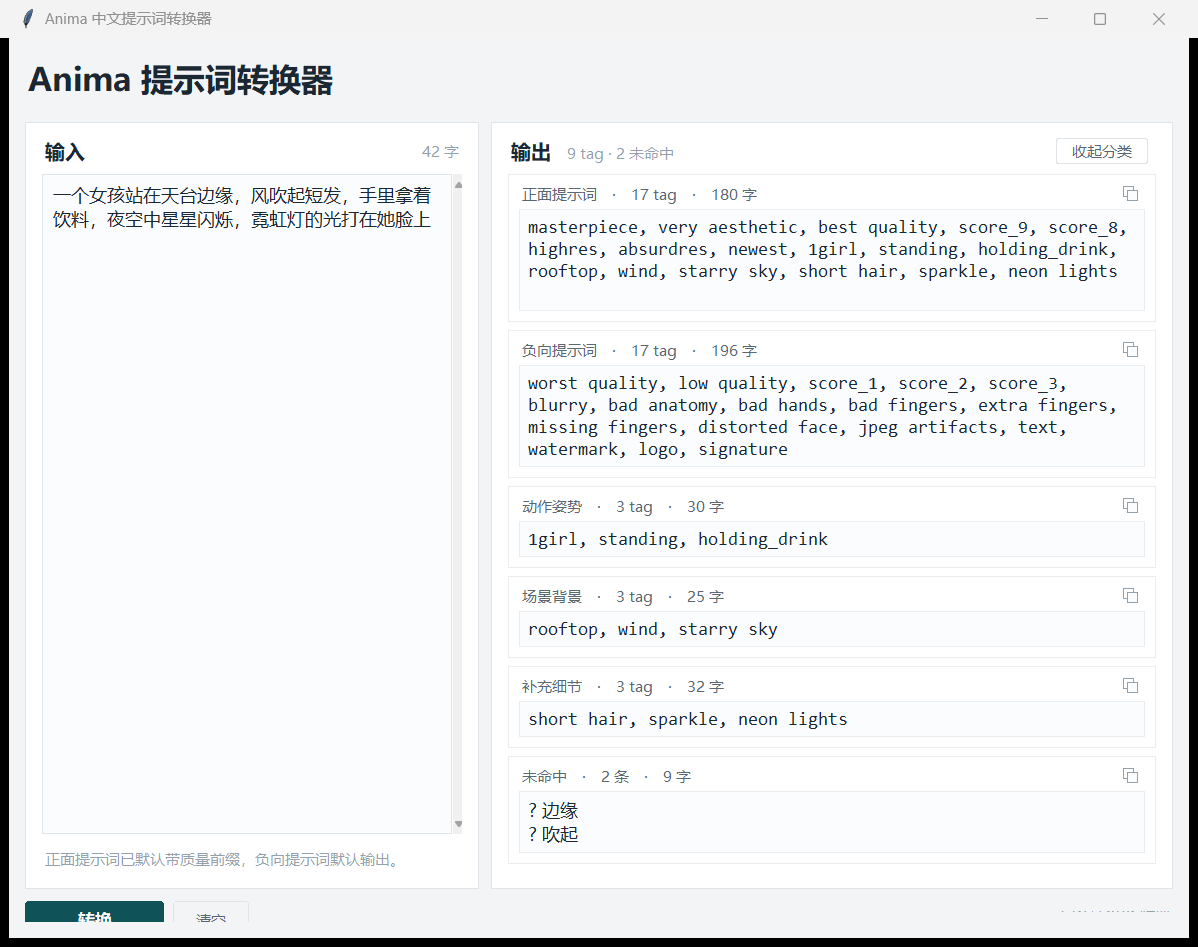
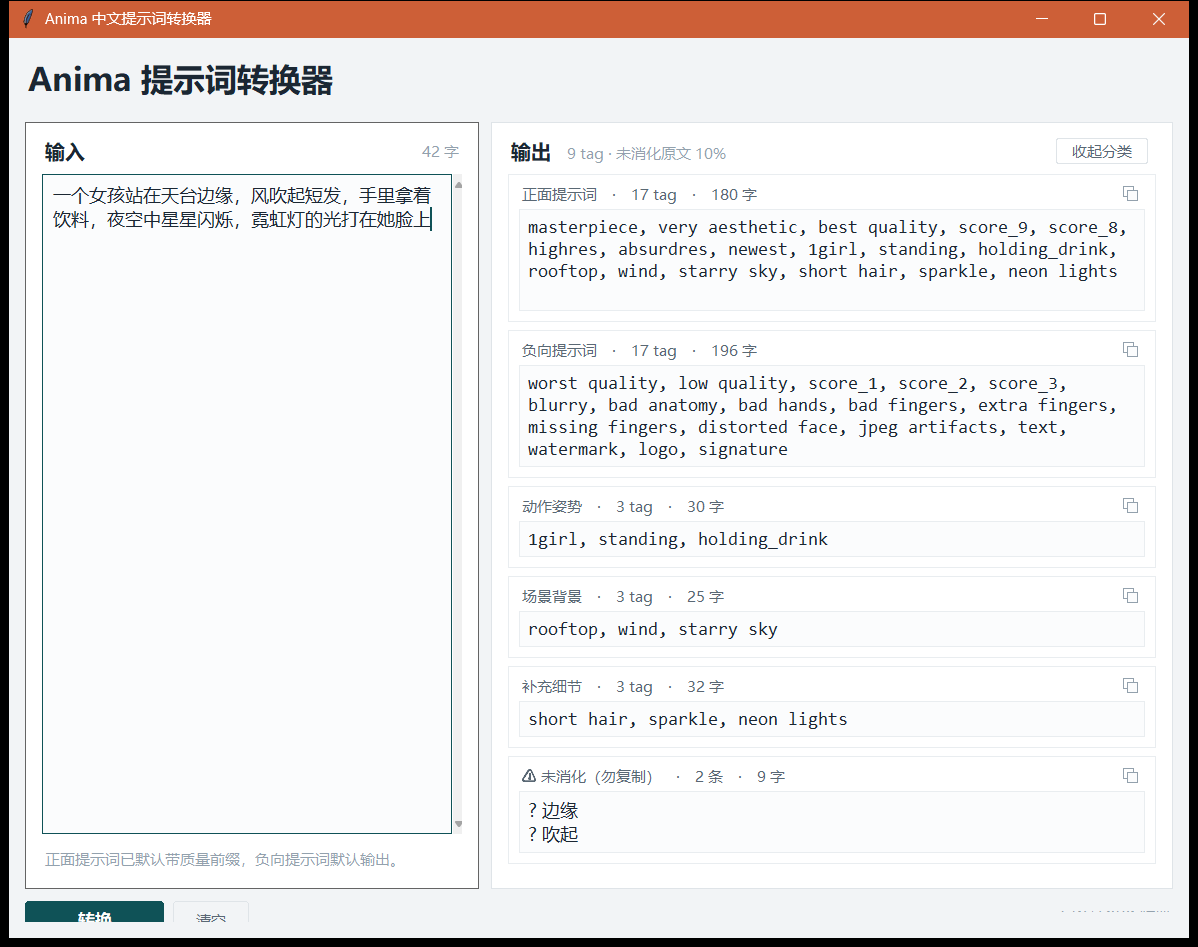
docs: 明确说明纯离线 tag 映射的能力边界
工具只做「中文词 -> Danbooru tag」单点映射，不做语序与动作推理。
以动作为主的描述会大量失真，实测需如实说明。

新增 tools/audit_actions.py：量化动作类描述的失真
- 20 条动作描述：丢弃 41% 原文字符，18 个片段未消化
- 4 条名词描述对照：丢弃 0%
- 典型失真：动词无 tag 可映射，只抽出宾语
  「女孩打开冰箱拿出牛奶」-> 1girl, refrigerator, milk（动作丢失）
  「他解开衬衫最上面的扣子」-> 完全无命中

界面与输出改进：
- 顶部显示「未消化原文 N%」，超 40% 转警示色
- 脱离 prompt 的片段改用醒目标题「⚠ 未消化（勿复制）」并加横线隔离
- 输出末尾直接给出建议：动作改用英文短句写在 prompt 末尾
- README 新增「这个工具不能做什么」一节，附实测数据与正确写法

用词统一：「未命中」改为「未消化」，更准确表达语义丢失

Changed region(s): [[0.0, 0.0, 1.0, 0.0612], [0.4324, 0.7962, 0.6177, 0.8268], [0.525, 0.1531, 0.6177, 0.1837]]

diff --git a/tools/audit_actions.py b/tools/audit_actions.py
@@ -1,0 +1,98 @@
+# -*- coding: utf-8 -*-
+"""自检：动作类描述在「纯 tag 映射」下的失真情况。
+
+这个工具只做「中文词 -> Danbooru tag」的单点映射，不理解句法。
+本脚本量化由此产生的三类问题，用于在 README 里如实说明边界。
+
+用法：
+    python tools/audit_actions.py
+    python tools/audit_actions.py --ext         # 带上扩展词库
+"""
+import argparse
+import sys
+from pathlib import Path
+
+sys.path.insert(0, str(Path(__file__).resolve().parent.parent))
+
+import anima_prompt as ap  # noqa: E402
+
+# 典型动作描述：动词 + 宾语 + 修饰，考察工具能保住多少语义
+CASES = [
+    "她握着剑柄缓缓抽出长剑",
+    "女孩打开冰箱拿出牛奶",
+    "他一边走路一边看手机",
+    "男孩跳起来伸手去够树枝",
+    "她轻轻地叹了口气然后转身离开",
+    "他把书放到架子上",
+    "她推开窗户探出头",
+    "男人点起一根烟",
+    "她用手指拨了拨头发",
+    "他蹲下身系鞋带",
+    "女孩把头发扎成马尾",
+    "她单手撑着脸颊看书",
+    "他把杯子递给我",
+    "她戴上耳机开始跑步",
+    "男孩把球踢向球门",
+    "她伸手接住落下的花瓣",
+    "他解开衬衫最上面的扣子",
+    "女孩把钥匙插进锁孔",
+    "她转身背对着我",
+    "他抬头看向天花板",
+]
+
+# 纯名词/状态描述：这类应该表现良好，作为对照
+CONTRAST = [
+    "一个女孩坐在教室窗边",
+    "双马尾少女穿着和服",
+    "银发红瞳的少女站在雨中",
+    "逆光下的长发女孩",
+]
+
+
+def run(text: str, use_ext: bool) -> dict:
+    return ap.convert(text, use_ext=use_ext)
+
+
+def main() -> int:
+    parser = argparse.ArgumentParser()
+    parser.add_argument("--ext", action="store_true", help="启用扩展词库")
+    args = parser.parse_args()
+
+    ap.load_user_dict()
+
+    def summarize(title: str, cases: list[str]) -> None:
+        print(f"\n{'=' * 66}\n{title}\n{'=' * 66}")
+        n_hit = n_miss = n_chars_hit = n_chars_all = 0
+        for text in cases:
+            r = run(text, args.ext)
+            tags = ap.all_tags(r)
+            miss = r["misses"]
+            n_hit += len(tags)
+            n_miss += len(miss)
+            n_chars_all += len(text)
+            # 被「未命中」吞掉的原文字数，粗略代表语义丢失
+            n_chars_hit += sum(len(m) for m in miss)
+            flag = "  <-- 无任何命中" if not tags else ""
+            print(f"\n输入：{text}")
+            print(f"  tag  ：{', '.join(tags) if tags else '（空）'}")
+            if miss:
+                print(f"  丢失 ：{'、'.join(miss)}")
+            if flag:
+                print(flag)
+
+        print(f"\n{'-' * 66}")
+        print(f"用例数 {len(cases)}   产出 tag {n_hit} 个   未消化片段 {n_miss} 个")
+        if n_chars_all:
+            print(f"被丢弃的原文字符占比：{n_chars_hit / n_chars_all * 100:.0f}%")
+
+    summarize("动作类描述（含动词、宾语、结果）", CASES)
+    summarize("名词 / 状态描述（对照组）", CONTRAST)
+
+    print("\n结论提示：")
+    print("  - 动作类：动词普遍无 tag 可映射，只有宾语/状态被抽出，动作本身丢失")
+    print("  - 名词类：命中率高，这是本工具的设计适用范围")
+    return 0
+
+
+if __name__ == "__main__":
+    raise SystemExit(main())

diff --git a/anima_prompt.py b/anima_prompt.py
@@ -852,12 +852,18 @@ def render(result: dict, with_quality: bool = False, with_negative: bool = False
     if result["misses"]:
         lines.append("")
         lines.append("")
-        lines.append(f"【未命中 · 词典里没有（{len(result['misses'])}）】")
+        lines.append("─" * 46)
+        lines.append(f"⚠ 以下 {len(result['misses'])} 段未进入 prompt，不要复制")
+        lines.append("─" * 46)
         for m in result["misses"]:
             lines.append(f"  ? {m}")
         lines.append("")
-        lines.append("这些片段没有对应 Danbooru tag，按「不脑补」原则未写入 prompt。")
-        lines.append("要补的话，在 data/user_dict.json 里加一条映射即可。")
+        lines.append("本工具只做「中文词 → Danbooru tag」的单点映射，不做语序和动作推理。")
+        lines.append("所以以动作为主的描述会有损失：动词多半没有对应 tag，")
+        lines.append("能命中的往往只是动作的宾语，画面容易变成「静物」。")
+        lines.append("")
+        lines.append("建议：动作部分改用英文短句写在 prompt 末尾，效果比硬凑 tag 好得多。")
+        lines.append("要补词就编辑 data/user_dict.json。")
 
     return "\n".join(lines)
 
@@ -1154,7 +1160,7 @@ def run_gui(demo: str = "") -> None:
                 if n:
                     make_card(body_out, f"g::{g}", g, min(4, max(1, n // 6 + 1)))
             if result["misses"]:
-                make_card(body_out, "miss", "未命中", min(5, max(1, len(result["misses"]) // 2 + 1)), mono=False)
+                make_card(body_out, "miss", "⚠ 未消化（勿复制）", min(5, max(1, len(result["misses"]) // 2 + 1)), mono=False)
 
         for item in state["cards"]:
             key = item["key"]
@@ -1206,11 +1212,22 @@ def run_gui(demo: str = "") -> None:
         result = state["result"] or {"groups": {}, "misses": [], "en_tags": []}
         draw_expand_btn()
         render_cards(result, state["expanded"])
+
         n_hit = sum(len(v) for v in result["groups"].values()) + len(result["en_tags"])
-        if n_hit:
-            totals.configure(text=f"{n_hit} tag · {len(result['misses'])} 未命中")
-        else:
+        if not n_hit and not result["misses"]:
             totals.configure(text="")
+            return
+
+        # 丢失率：被未命中吞掉的原文字符占多少。
+        # 这是本工具最该被看见的数字 —— 工具只做单点映射，动作类描述会大量丢失。
+        raw = result.get("raw", "")
+        lost = sum(len(m) for m in result["misses"])
+        ratio = lost / len(raw) if raw else 0.0
+
+        msg = f"{n_hit} tag"
+        if result["misses"]:
+            msg += f" · 未消化原文 {ratio * 100:.0f}%"
+        totals.configure(text=msg, fg=C["warn"] if ratio >= 0.4 else C["text3"])
 
     # ---------------- 行为 ----------------
     def update_counter(_e=None):

diff --git a/README.md b/README.md
@@ -18,7 +18,7 @@
 ## 三条铁律
 
 1. **只翻译，不脑补。** 你写什么就转什么。没提到的概念，一个字都不会被加进去。
-2. **不编造。** 中文词在词典里找不到对应 tag 时，原样列进「未命中」区，不猜、不替换。
+2. **不编造。** 中文词在词典里找不到对应 tag 时，原样列进「未消化」区，不猜、不替换。
 3. **不联网。** 没有任何网络请求。
 
 ## 特性
@@ -99,7 +99,7 @@ masterpiece, very aesthetic, best quality, score_9, score_8, highres, absurdres,
 | 动作姿势 | `1girl, standing, holding_drink` |
 | 场景背景 | `rooftop, wind, starry sky` |
 | 补充细节 | `short hair, sparkle, neon lights` |
-| 未命中 | `边缘`、`吹起` |
+| 未消化 | `边缘`、`吹起` |
 
 ## 分类口径
 
@@ -292,13 +292,66 @@ anima-prompt-tool/
 
 想换配色，改 `anima_prompt.py` 顶部的 `C` 字典，一个色值全局生效。
 
+## ⚠ 这个工具不能做什么
+
+**它只做「中文词 → Danbooru tag」的单点映射，不做语序、句法和动作推理。** 这是完全离线的查表，不是翻译，更不是理解。
+
+最直接的后果：**以动作为主的描述会大量失真。**
+
+它会把能对上的词抽成 tag，对不上的原样列进「未消化」区，但**它不知道这些词之间的动作关系**。于是：
+
+```
+输入：女孩打开冰箱拿出牛奶
+输出：1girl, refrigerator, milk        ← 「打开」「拿出」没了
+```
+
+模型看到的是「女孩 + 冰箱 + 牛奶」——很可能画成一幅静物，而不是一个开冰箱的动作。
+
+### 用真实数据说话
+
+`tools/audit_actions.py` 跑 20 条动作描述 + 4 条名词描述：
+
+| 类型 | 产出 tag | 未消化片段 | 被丢弃的原文字符 |
+| --- | --- | --- | --- |
+| 动作类（握剑、开冰箱、踢球…） | 30 个 | 18 个 | **41%** |
+| 名词/状态类（对照） | 15 个 | 0 个 | **0%** |
+
+极端情况：
+
+| 输入 | 输出 | 问题 |
+| --- | --- | --- |
+| `他解开衬衫最上面的扣子` | （空） | 完全没命中 |
+| `男孩把球踢向球门` | `1boy` | 只有主体，踢球和球门都丢了 |
+| `他把杯子递给我` | `cup` | 只剩道具 |
+
+```bash
+python tools/audit_actions.py --ext      # 自己复现
+```
+
+### 那动作怎么写
+
+**用英文自然语言补在 prompt 末尾。** Anima 支持 tag 与自然语言混写，动作、接触、视线、因果这类关系正是自然语言擅长的：
+
+```
+1girl, refrigerator, milk, kitchen,
+She opens the refrigerator and takes out a carton of milk, holding it with both hands.
+```
+
+不要硬凑 tag。Anima 表里没有 `opening_refrigerator` 这种 tag，凑不出来。
+
+### 界面会告诉你丢了多少
+
+顶部会显示 **「未消化原文 N%」**，超过 40% 变橙色。看到这个数字就该意识到：这段描述以动作为主，得手工补自然语言。
+
+「未消化」的内容**不会**进 prompt，也不该被复制——输出里用横线单独隔开了。
+
 ## 已知边界
 
-- 中文分词靠**最长匹配**，不是真正的分词器。罕见表达会被拆成「部分命中 + 未命中」，未命中区会如实报出来。
-- 复合短语如「天台边缘」只能命中「天台」，「边缘」进未命中。要精确匹配就往 `user_dict.json` 里加整条。
+- 中文分词靠**最长匹配**，不是真正的分词器。罕见表达会被拆成「部分命中 + 未消化」，未消化区会如实报出来。
+- 复合短语如「天台边缘」只能命中「天台」，「边缘」进未消化。要精确匹配就往 `user_dict.json` 里加整条。
 - 核心词典 331 条覆盖高频视觉概念；再往外的长尾词靠扩展词库，但扩展层只收 Anima 认识的 tag，所以低频段覆盖有限（见上文覆盖率表）。
 - 扩展层对译名严格精确匹配，所以「午后」查不到（表里的译名是「下午」）。别名要靠 `user_dict.json` 补。
-- 氛围词（安静的、温馨的、浪漫的）在 Anima 表里没有对应 tag，会落进未命中。Anima 支持自然语言，这类描述适合用英文短句写在 prompt 末尾。
+- 氛围词（安静的、温馨的、浪漫的）在 Anima 表里没有对应 tag，会落进未消化。这类描述同样适合用英文短句写在 prompt 末尾。
 - 窗口尺寸和位置不做记忆。
 
 ## 资源占用
@@ -324,7 +377,7 @@ anima-prompt-tool/
 - [ffdkj 的 Danbooru 中英对照表](https://github.com/ffdkj/ffdkj-Danbooru_Tag-Chinese-English-Translation-Table) — 33 万条 sqlite / csv，MIT
 - [Comfyui-Anima-Tools](https://github.com/ComfyNodePRs/PR-Comfyui-Anima-tools-a0fe04bd) — Anima 专用视觉提示词套件
 
-它们都是「给你一个词库，你自己挑」。而本工具是「丢一段中文进去，直接出分类好的 prompt」，中间的分词、分类、未命中隔离没人做。
+它们都是「给你一个词库，你自己挑」。而本工具是「丢一段中文进去，直接出分类好的 prompt」，中间的分词、分类、未消化隔离没人做。
 
 ## 致谢
 
